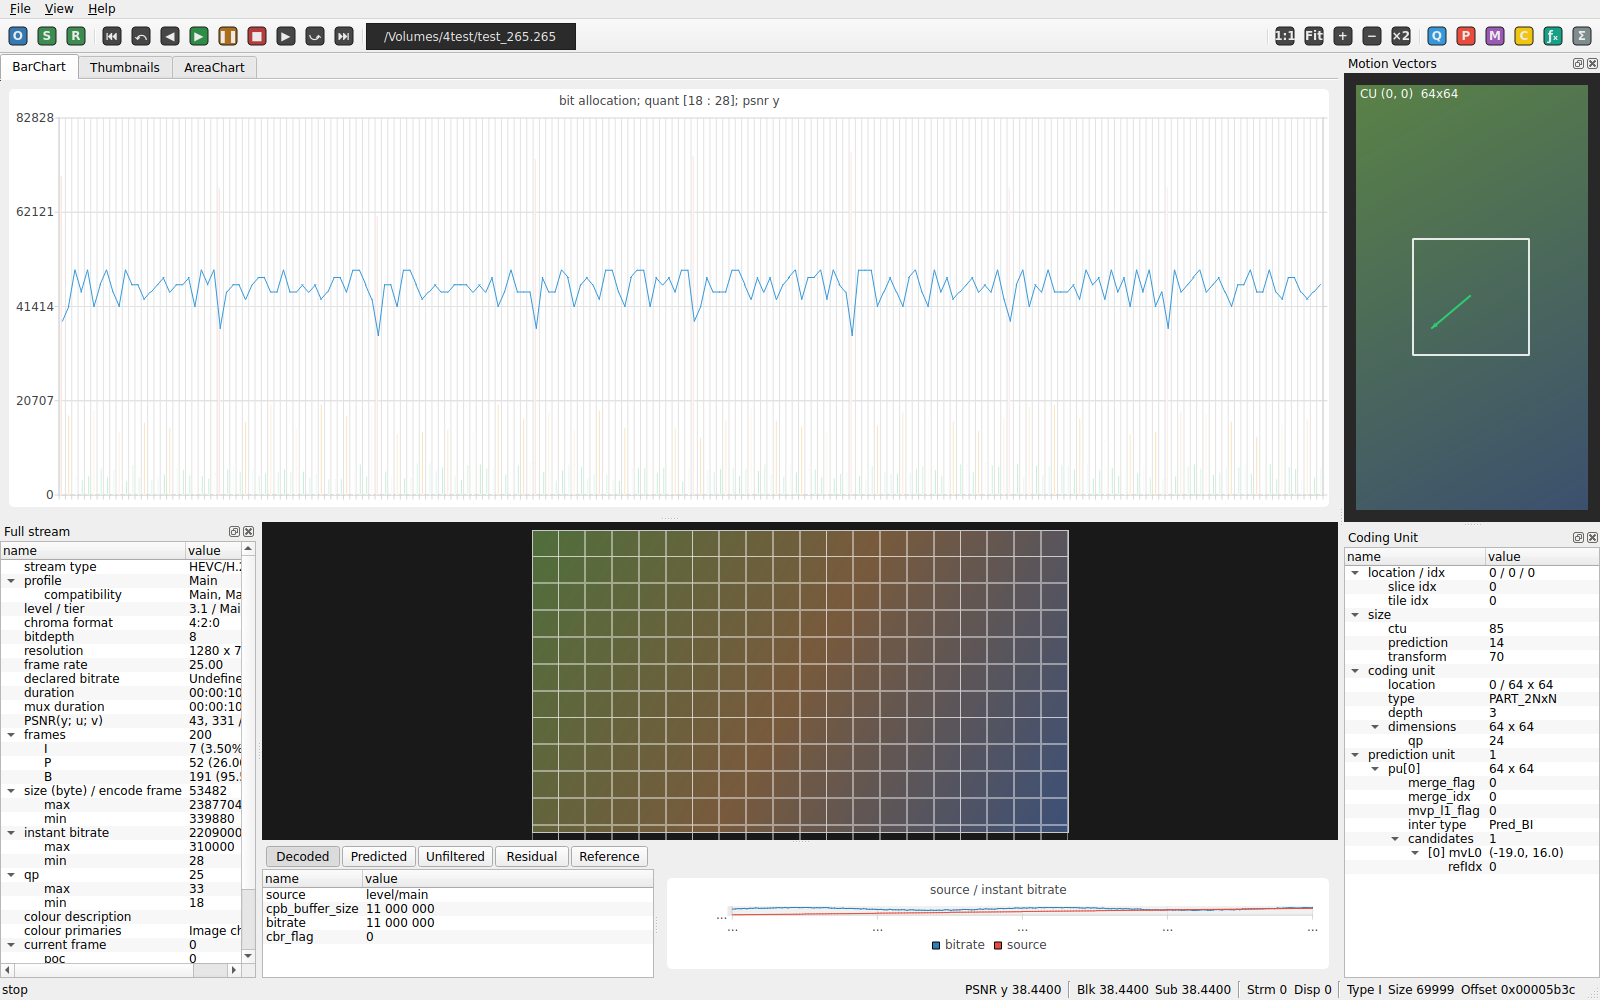
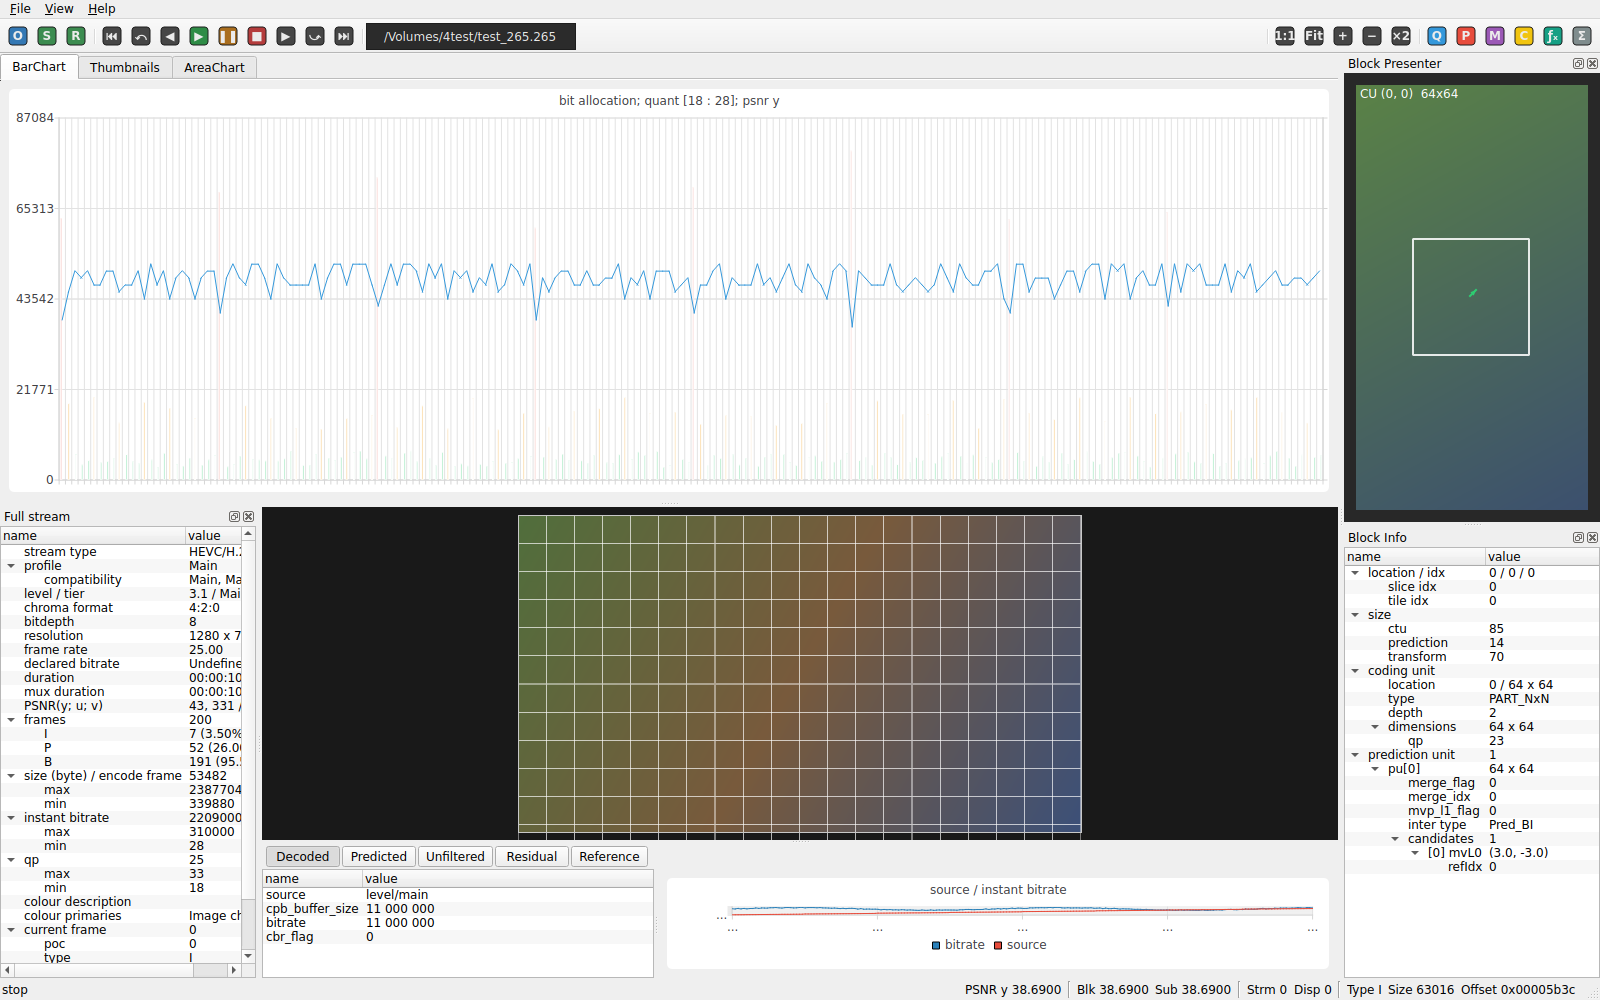
Rename right docks: Block Presenter / Block Info
Match the reference panel naming: the top-right dock (motion-vector
viewer) is now titled "Block Presenter" and the bottom-right dock
(coding-unit info tree) is "Block Info".

https://claude.ai/code/session_01Fk599Kxe4RL25fwFBHgwYp

diff --git a/src/MainWindow.cpp b/src/MainWindow.cpp
@@ -155,17 +155,17 @@ void MainWindow::setupDocks() {
     streamDock->setAllowedAreas(Qt::LeftDockWidgetArea | Qt::RightDockWidgetArea);
     addDockWidget(Qt::LeftDockWidgetArea, streamDock);
 
-    // --- Right (top) dock: Motion-vector viewer ---
-    auto* mvDock = new QDockWidget(tr("Motion Vectors"), this);
-    mvDock->setObjectName(QStringLiteral("MotionVectorDock"));
+    // --- Right (top) dock: Block Presenter (motion-vector viewer) ---
+    auto* mvDock = new QDockWidget(tr("Block Presenter"), this);
+    mvDock->setObjectName(QStringLiteral("BlockPresenterDock"));
     m_mvView = new MotionVectorView(mvDock);
     mvDock->setWidget(m_mvView);
     mvDock->setMinimumWidth(220);
     addDockWidget(Qt::RightDockWidgetArea, mvDock);
 
-    // --- Right (bottom) dock: Coding-unit info tree ---
-    auto* cuDock = new QDockWidget(tr("Coding Unit"), this);
-    cuDock->setObjectName(QStringLiteral("CodingUnitDock"));
+    // --- Right (bottom) dock: Block Info (coding-unit info tree) ---
+    auto* cuDock = new QDockWidget(tr("Block Info"), this);
+    cuDock->setObjectName(QStringLiteral("BlockInfoDock"));
     m_codingUnitTree = new CodingUnitTree(cuDock);
     cuDock->setWidget(m_codingUnitTree);
     cuDock->setMinimumWidth(220);
